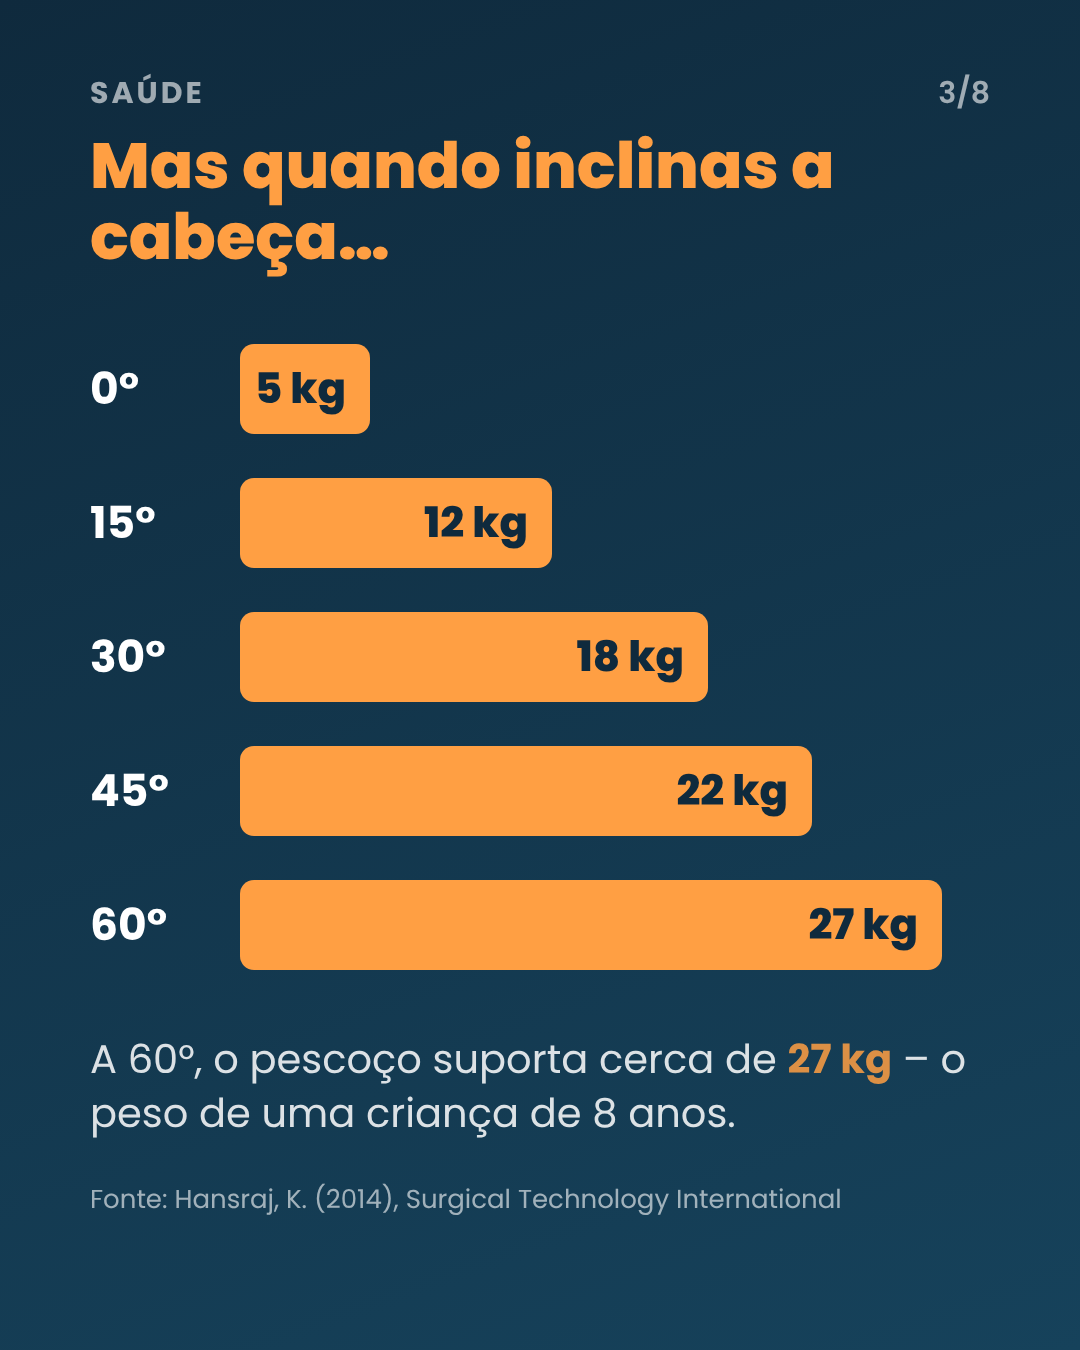
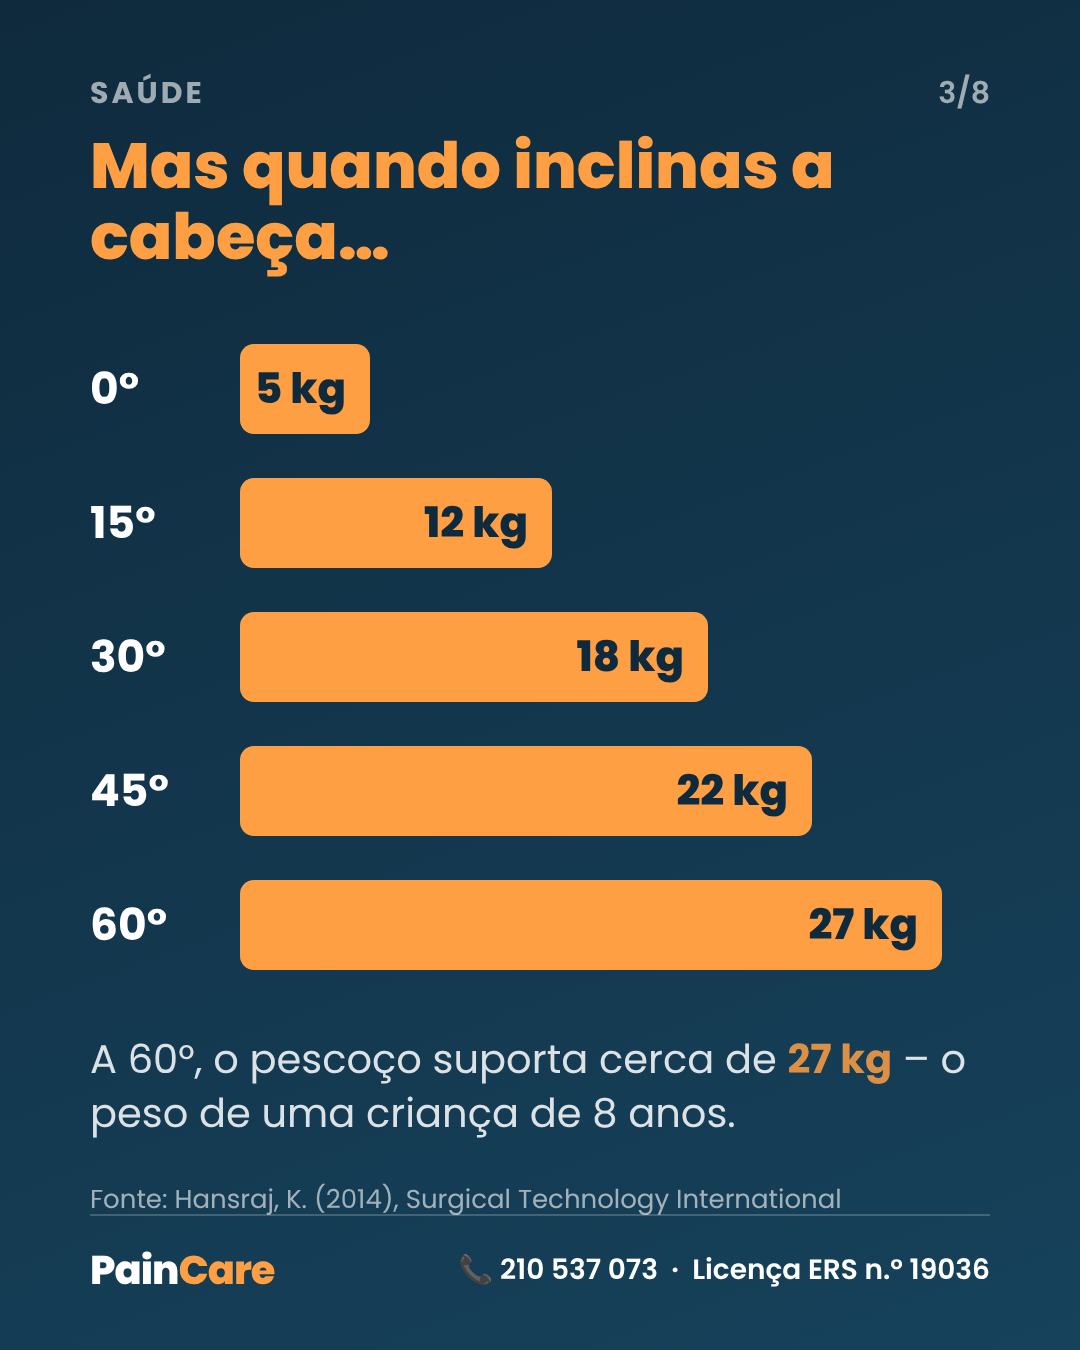
Carrossel: adiciona marca PainCare, telefone e licença ERS
Claude-Session: https://claude.ai/code/session_01ViLD6Qt5UPyuSCDBGsunRp

Changed region(s): [[0.6417, 0.9333, 0.9167, 0.9644], [0.0611, 0.9333, 0.275, 0.9644], [0.4278, 0.9333, 0.6111, 0.9644]]

diff --git a/carrossel/slides.js b/carrossel/slides.js
@@ -6,7 +6,7 @@ const slides = [
  {k:'list', h:'Sinais de alerta', items:['Dor e rigidez no pescoço','Dores de cabeça frequentes','Dor nos ombros e costas','Formigueiro nos braços','Má postura (ombros "caídos")']},
  {k:'list', h:'Como proteger o pescoço', items:['Sobe o telemóvel à altura dos olhos','Mexe os olhos, não a cabeça','Faz pausas a cada 20–30 min','Alonga pescoço e ombros','Usa suporte para ler ou ver vídeos']},
  {k:'ex', h:'Exercício de 1 minuto', items:['Senta-te direito, ombros relaxados','Leva o queixo para trás ("queixo duplo")','Segura 5 segundos','Repete 10 vezes']},
- {k:'end', t:'Levanta a cabeça! 🙌', s:'Guarda este post e partilha com quem passa o dia no telemóvel.', n:'Em caso de dor persistente, consulta um médico.'},
+ {k:'end', t:'Levanta a cabeça! 🙌', s:'Guarda este post e partilha com quem passa o dia no telemóvel.<br><br>Marque a sua consulta: <b>210 537 073</b>', n:'Em caso de dor persistente, consulta um médico.'},
 ];
 const angles=[[0,5],[15,12],[30,18],[45,22],[60,27]];
 const css=`*{margin:0;box-sizing:border-box}body{width:1080px;height:1350px;font-family:'Poppins',sans-serif;background:#0f2a3d;color:#fff;overflow:hidden}
@@ -14,14 +14,16 @@ const css=`*{margin:0;box-sizing:border-box}body{width:1080px;height:1350px;font
 .slide.alt{background:linear-gradient(160deg,#fff7ec,#ffe6c7);color:#0f2a3d}
 h1{font-size:104px;line-height:1.05;font-weight:800}h2{font-size:64px;line-height:1.1;font-weight:800;margin-bottom:50px;color:#ff9f43}.alt h2{color:#e2711d}
 b{color:#ff9f43}.alt b{color:#e2711d}p.t{font-size:62px;font-weight:700;line-height:1.2}p.s{font-size:40px;margin-top:40px;opacity:.85;line-height:1.35}
-.n{position:absolute;bottom:80px;right:90px;font-size:36px;font-weight:600;opacity:.8}.pg{position:absolute;top:70px;right:90px;font-size:30px;opacity:.6;font-weight:600}
+.n{position:absolute;bottom:150px;right:90px;font-size:36px;font-weight:600;opacity:.8}.pg{position:absolute;top:70px;right:90px;font-size:30px;opacity:.6;font-weight:600}
 .tag{position:absolute;top:70px;left:90px;font-size:30px;font-weight:700;letter-spacing:3px;opacity:.6}
 ul{list-style:none}li{font-size:46px;font-weight:600;padding:26px 0 26px 80px;position:relative;border-bottom:2px solid rgba(255,255,255,.15)}.alt li{border-color:rgba(15,42,61,.15)}
 li:before{content:'✓';position:absolute;left:0;color:#ff9f43;font-weight:800}.alt li:before{color:#e2711d}
 ol li{counter-increment:c}ol{list-style:none;counter-reset:c}ol li:before{content:counter(c)}
 .bar{display:flex;align-items:center;margin:22px 0}.bar .a{width:150px;font-size:44px;font-weight:700}.bar .r{height:90px;background:#ff9f43;border-radius:14px;display:flex;align-items:center;justify-content:flex-end;padding-right:24px;font-size:42px;font-weight:800;color:#0f2a3d}
-.src{font-size:26px;opacity:.6;margin-top:40px}.big{font-size:180px}`;
-const html=(sl,i)=>{let b='';const pg=`<div class="tag">SAÚDE</div><div class="pg">${i+1}/${slides.length}</div>`;
+.src{font-size:26px;opacity:.6;margin-top:40px}.big{font-size:180px}
+.ft{position:absolute;left:90px;right:90px;bottom:50px;display:flex;justify-content:space-between;align-items:center;border-top:2px solid rgba(255,255,255,.2);padding-top:24px;font-size:28px;font-weight:600}.alt .ft{border-color:rgba(15,42,61,.2)}
+.logo{font-size:40px;font-weight:800;letter-spacing:-1px}.logo span{color:#ff9f43}.alt .logo span{color:#e2711d}`;
+const html=(sl,i)=>{let b='';const ft=`<div class="ft"><div class="logo">Pain<span>Care</span></div><div>📞 210 537 073 &nbsp;·&nbsp; Licença ERS n.º 19036</div></div>`;const pg=`<div class="tag">SAÚDE</div><div class="pg">${i+1}/${slides.length}</div>`;
  if(sl.k=='cover')b=`<div class="big">🤳</div><h1>${sl.t}</h1><p class="s">${sl.s}</p><div class="n">${sl.n}</div>`;
  else if(sl.k=='text')b=`<h2>${sl.h}</h2><p class="t">${sl.t}</p><p class="s">${sl.s}</p>`;
  else if(sl.k=='chart')b=`<h2>${sl.h}</h2>`+angles.map(([a,k])=>`<div class="bar"><div class="a">${a}°</div><div class="r" style="width:${k*26}px">${k} kg</div></div>`).join('')+`<p class="s">A 60°, o pescoço suporta cerca de <b>27 kg</b> – o peso de uma criança de 8 anos.</p><p class="src">Fonte: Hansraj, K. (2014), Surgical Technology International</p>`;
@@ -29,7 +31,7 @@ const html=(sl,i)=>{let b='';const pg=`<div class="tag">SAÚDE</div><div class="
  else if(sl.k=='ex')b=`<h2>${sl.h}</h2><ol>${sl.items.map(x=>`<li>${x}</li>`).join('')}</ol>`;
  else b=`<h1>${sl.t}</h1><p class="s">${sl.s}</p><p class="src" style="font-size:32px;margin-top:60px">${sl.n}</p>`;
  const alt=(i%2==1)?' alt':'';
- return `<!doctype html><html><head><meta charset="utf-8"><link href="https://fonts.googleapis.com/css2?family=Poppins:wght@400;600;700;800&display=swap" rel="stylesheet"><style>${css}</style></head><body><div class="slide${alt}">${pg}${b}</div></body></html>`;};
+ return `<!doctype html><html><head><meta charset="utf-8"><link href="https://fonts.googleapis.com/css2?family=Poppins:wght@400;600;700;800&display=swap" rel="stylesheet"><style>${css}</style></head><body><div class="slide${alt}">${pg}${b}${ft}</div></body></html>`;};
 const {chromium}=require('playwright');
 (async()=>{const br=await chromium.launch();const p=await br.newPage({viewport:{width:1080,height:1350}});
 for(let i=0;i<slides.length;i++){await p.setContent(html(slides[i],i),{waitUntil:'networkidle'}).catch(()=>{});await p.waitForTimeout(300);await p.screenshot({path:`slide-${i+1}.png`});}
